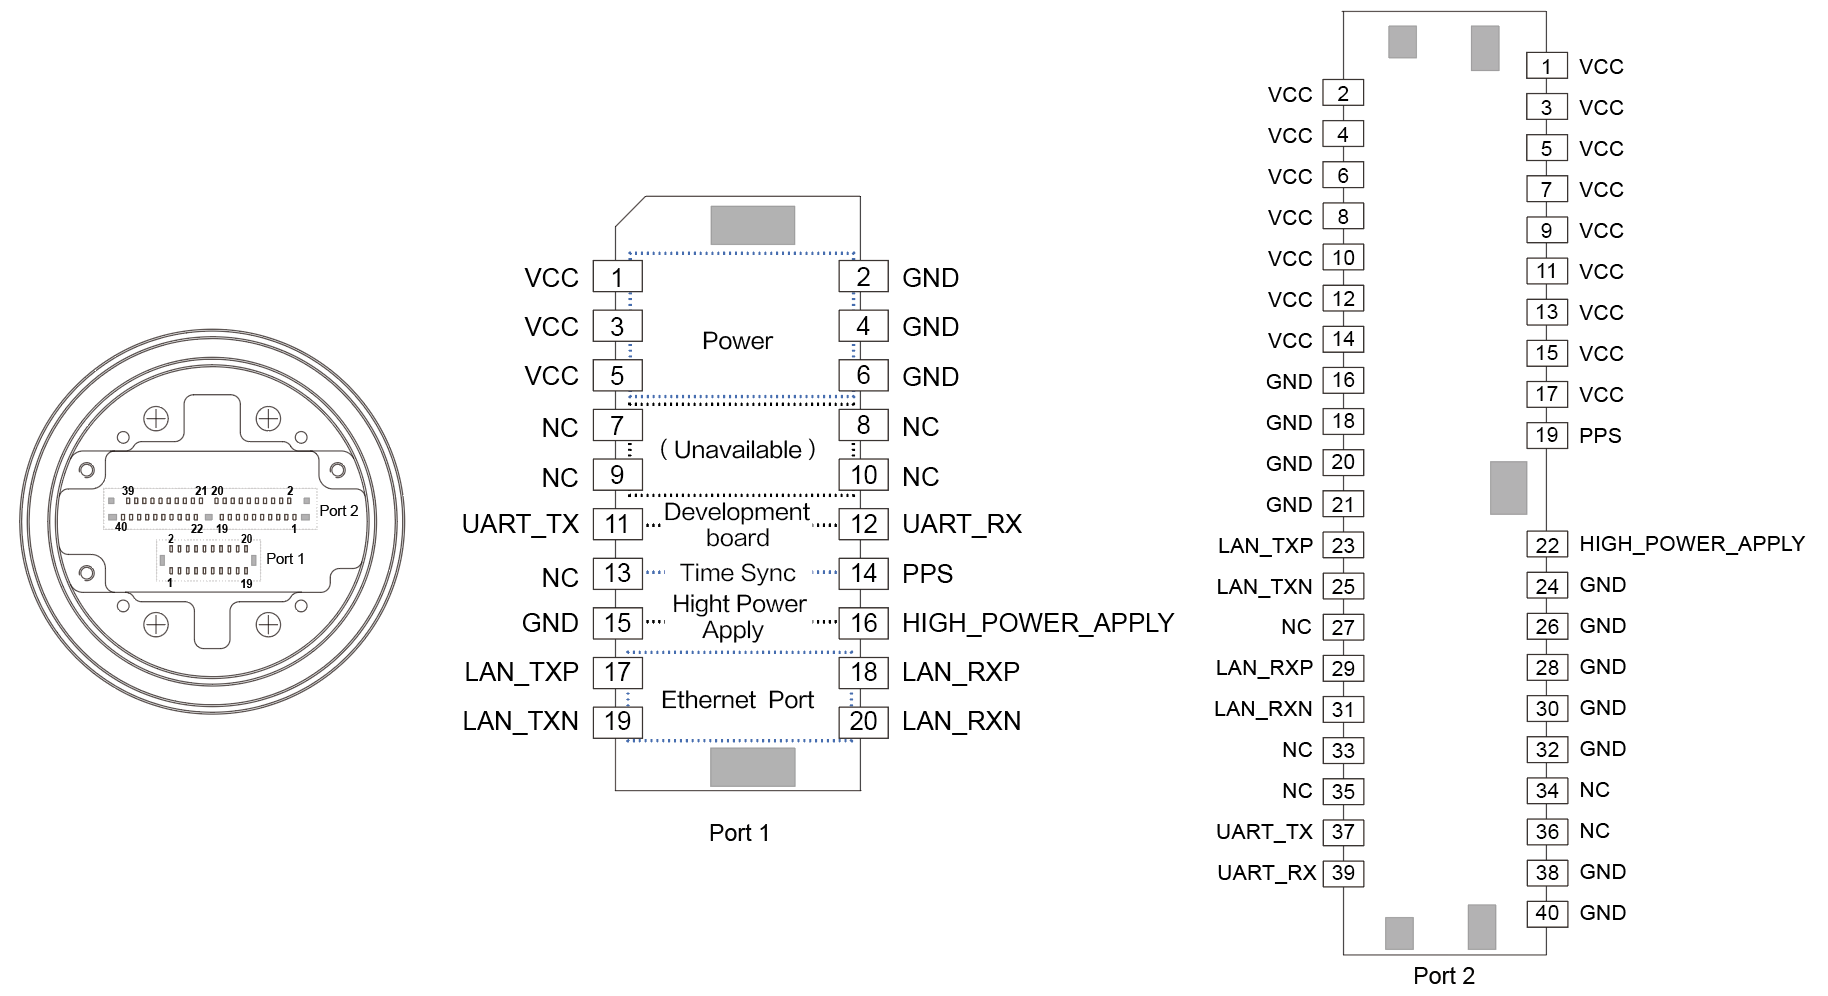
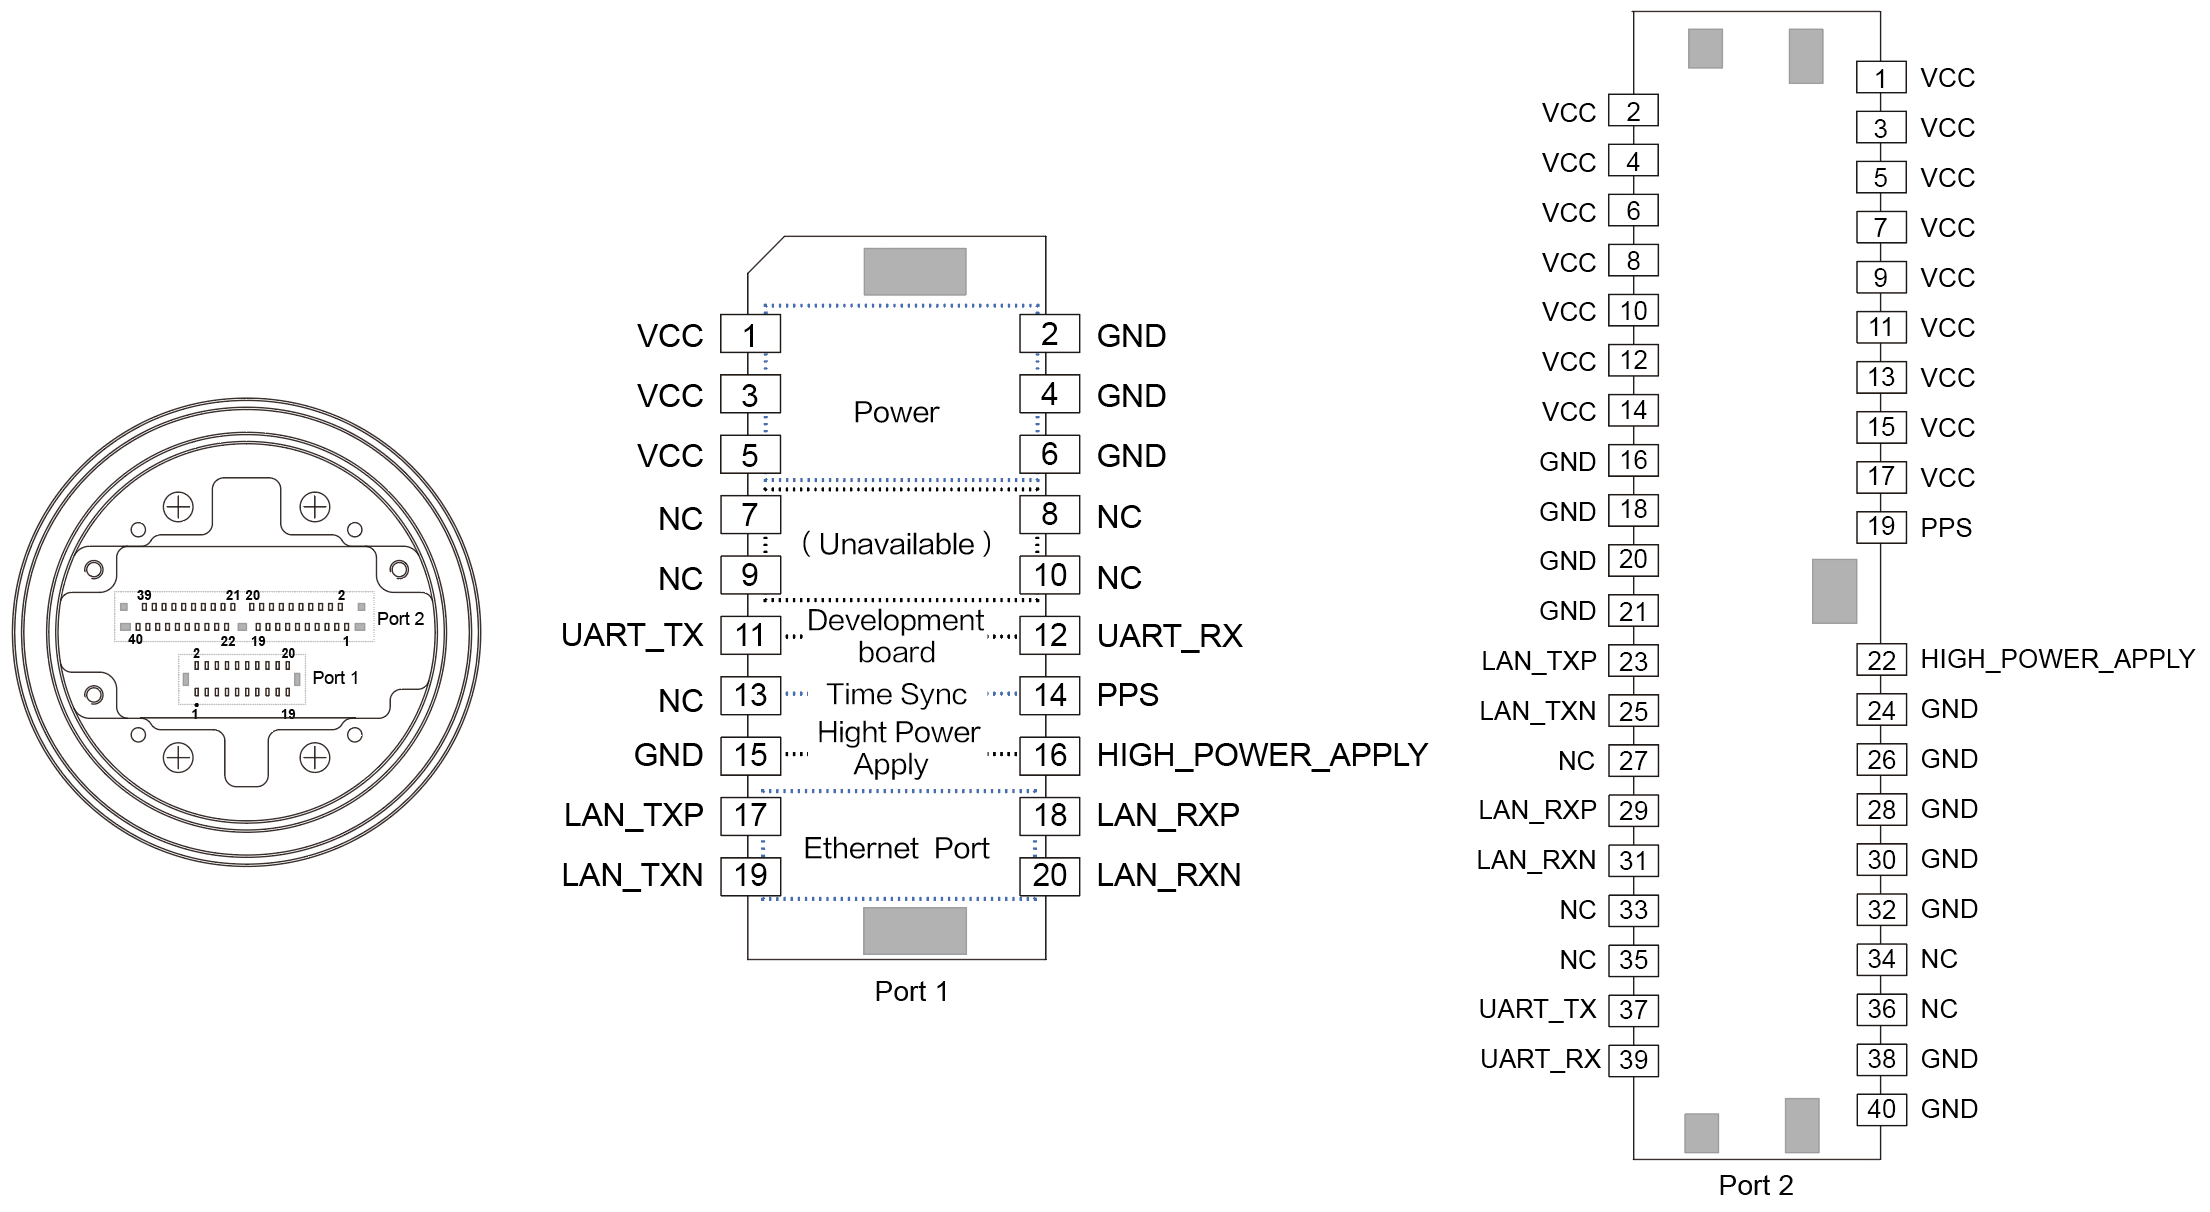
Update psdk doc for Xport and Skyport 2

diff --git a/source/guide/payload-criterion.md b/source/guide/payload-criterion.md
@@ -150,6 +150,8 @@ keywords: [camera stream, standard, payload standard, equipment interference, ha
 > * To prevent the payload carried on the drone from being affected by the inertia of the drone, impact the battery and the blades, please design the size of the load equipment reasonably;
 > * When the weight of the payload is over 600g, please submit the payload to DJI for evaluation.
 
+#### Generic
+
 <table id="PSDK technical integration NOTEs">
   <thead>
     <tr>
@@ -184,6 +186,80 @@ keywords: [camera stream, standard, payload standard, equipment interference, ha
     </tr>
    </tbody>
 </table>
+
+#### Structural for X-Port
+##### X-Port‘s structural
+Figure 1 display the dimension of X-Port.    
+<div>
+<div style="text-align: center"><p>Figure 1 The dimension of X-Port（unit：mm）</p>
+</div>
+<div style="text-align: center"><p><span>
+      <img src="../images/XPort-structure.png" width="450" style="vertical-align:middle" alt/></span></p>
+</div></div>
+
+##### Payload‘s structural
+Before designing the structure of the payload, please choose a tripod, if the size of the payload is limited by the tripod.
+
+<div>
+  <table>
+    <thead>
+      <tr>
+        <th> Gimbal Type</th>
+        <th> Pitch axis rotation limit (Idle speed) </th>
+        <th> Landing Gear Type </th>
+        <th> X-Port payload structure limitation </th>
+      </tr>
+</thead>
+<tbody>
+<tr>
+     <td rowspan=4> Single cloud platform </td>
+     <td rowspan=2> Restricted </td>
+     <td> Original </td>
+     <td> The distance between the lower surface of the payload and the pitch axis is not more than 54mm. </td>
+ </tr>
+<tr>
+    <td> Long </td>
+    <td> The distance between the lower surface of the payload and the pitch axis is not more than 72mm. </td>
+ </tr>
+<tr>
+    <td rowspan=2> None </td>
+    <td> Original </td>
+    <td> The payload must in the mass center, which the diameter of the ball is 118mm.</td>
+ </tr>
+<tr>
+   <td> Long </td>
+   <td> The payload must in the mass center, which the diameter of the ball is 154mm. </td>
+</tr>
+<tr>
+<td rowspan=4>Double Gimbal </td>
+<td rowspan=2> Restricted </td>
+<td> Original </td>
+<td> The distance between the lower surface of the payload and the pitch axis is not more than 45mm. </td>
+</tr>
+<tr>
+<td> Long </td>
+<td> The distance between the lower surface of the payload and the pitch axis is not more than 63mm. </td>
+</tr>
+<tr>
+<td rowspan=2> None </td>
+<td> Original </td>
+<td> The payload must in the mass center, which the diameter of the ball is 100mm. </td>
+</tr>
+<tr>
+<td> Long </td>
+<td> The payload must in the mass center, which the diameter of the ball is 136mm. </td>
+</tr>
+</tbody>
+</table>
+</div>
+
+The requirements of the payload which is mounted on the X-Port is as follows:    
+* The width of the pitch on the X-Port is 80mm. The width of the payload couldn't exceed the wheelbase.     
+* The weight of the payload must lighter than 450g otherwise the payload may damage the gimbal or the pressure-reducing-ball.     
+* The centroid of the normal payload must on the axis line of X-Port，and the payload couldn't strike the X-Port when the payload raised to 45°. The centroid of the payload must on the axis line when the payload’s zoom is in the maximum factor.   
+* If the payload touches the ground，please use the Long Landing Gear.    
+* Be sure that the port of the payload is completely flat, ensure that the waterproof could be sealed completely.      
+* The shell of payload could be aluminum alloy. A plastic or carbon case is not recommended.     
 
 ## Data Transmission
 ##### Use M200 V2 Series

diff --git a/source/workflow/device-connection.md b/source/workflow/device-connection.md
@@ -16,7 +16,7 @@ Figure 1 display the process of connection, that connected Hardware Platform、P
       <img src="../images/device-connection-en.png" width="650" style="vertical-align:middle" alt/></span></p>
 </div></div>
 
-> **TIP：** Using [User's Manual](https://www.dji.com/en/downloads) to know how to connect the drone and remote controller.
+> **NOTE：** Using [User's Manual](https://www.dji.com/en/downloads) to know how to connect the drone and remote controller.
 
 ## NOTICE
 * The details of the Hardware Platform, please refer to [Hardware Platform](../guide/hardware.html).
@@ -25,6 +25,8 @@ Figure 1 display the process of connection, that connected Hardware Platform、P
 ## Use X-Port
 #### X-Port Pin 
 Figure 2 shows the pin of X-Port. Use the cable to connect the X-Port to an expansion board or a third-party development board.
+
+>**NOTICE:** Please use the specified cable connect the X-Port and the Expansion Board, confirmed that the red cable is aligned with the dot mark, otherwise the payload may burned.
 
 <div>
 <div style="text-align: center"><p>Figure 2 X-Port Pin</p>
@@ -77,9 +79,11 @@ Figure 2 shows the pin of X-Port. Use the cable to connect the X-Port to an expa
     * For a zoom camera with a variable center of the centroid, the payload must on the vertical line of the pitch axis when the lens is at the maximum magnification.
 
 ## Use Skyport V2
-Figure 3 shows the pin of Skyport V2. Use the cable to connect the Skyport V2 to an expansion board or a third-party development board on the Port1; use coaxial cable to connect Skyport V2 to payload development board on the Port2.
+Figure 3 shows the pin of Skyport V2. Use the cable to connect the Skyport V2 to an expansion board or a third-party development board on the Port1; use coaxial cable to connect Skyport V2 to the payload development board on the Port2.
 
-> **NOTE:** Developer only could choose Port1 or Port2, both of them cannot be used at the same time.
+> **NOTICE** 
+> * Developer only could choose Port1 or Port2, both of them cannot be used at the same time.
+> * Please use the specified cable connect the Port1 and the Expansion Board, confirmed that the red cable is aligned with the dot mark, otherwise the payload may burned.
 
 <div>
 <div style="text-align: center"><p>Figure 3 Skyport V2 pin</p>
@@ -167,6 +171,8 @@ Figure 3 shows the pin of Skyport V2. Use the cable to connect the Skyport V2 to
 
 ## Use Expansion Board
 Figure 4 shows the port of the expansion board. Use this board, developers could connect the third-party development board and a variety of payloads.
+
+> **NOTICE:** Please use the specified cable connect the Third Development Board and the Expansion Board, confirmed that the red cable is aligned with the dot mark, otherwise the payload may burned.
 
 <div>
    <div>

diff --git a/source/cn/guide/hardware.md b/source/cn/guide/hardware.md
@@ -67,11 +67,6 @@ Skyport 包含如下配件：
       <td style="border-right: none;">24g</td>
     </tr>
     <tr style="text-align:center">
-      <td style="border-left: none;text-align:left;border-right: none;"><b>负载尺寸</b></td>
-      <td style="border-right: none;text-align:left;border-left: none;">负载设备需要在以X-Port 质心为</br>圆心，直径为145mm 的球内</td>
-      <td colspan="2" style="border-right: none;">负载设备不可撞击或干涉无人机的正常运行</td>
-    </tr>
-    <tr style="text-align:center">
       <td style="text-align:left;border-right: none;border-left: none"><b>负载重量</b></td>
       <td style="border-right: none;text-align:left;border-left: none;">450g</td>
       <td colspan="2" 1style="border-right: none;">单个负载设备的重量不超过600g</br><div style="background:#F2F2F2"> <b>说明：</b>有关负载设备重量的详细说明，请参见<a href=../guide/payload-criterion.html>结构标准</a>。</div></td>
@@ -131,27 +126,3 @@ Skyport 包含如下配件：
 > **说明** 
 > * X-Port 的防护等级：IP44，工作温度范围：-20°C～50°C。
 > * 受实际工作环境的影响，X-Port 实际的工作电流可能会和额定电流有一定的差异。
-
-## X-Port 
-有关使用X-Port 的操作步骤，请参见 [“使用硬件平台”](../guide/hardware.html)。	
-#### 云台结构
-X-Port 标准云台的结构如 图1. X-Port 标准云台 所示：
-<div>
-<div style="text-align: center"><p>图1. X-Port 标准云台（单位：mm）</p>
-</div>
-<div style="text-align: center"><p><span>
-      <img src="../../images/XPort-structure.png" width="450" style="vertical-align:middle" alt/></span></p>
-</div></div>
-
-#### 负载设备设计约束
-
-使用X-Port 开发的负载设备需符合如下要求：
-
-* X-Port 轴臂的宽度为**80mm**，为确保负载设备能够正常转动，负载设备的宽度**不可**超出该轴距；    
-* 负载设备的重量**不可**超过 **450g**，超出该质量的负载设备可能会损坏云台支架或减震球；    
-* 负载设备的质心需要在安装结构的轴心线上；确保负载设备在**以质心为球心**，直径为145mm 的球内，防止负载设备上扬45° 时，影响X-Port 的正常转动；    
-  >**说明：** 请确保可变焦的负载设备在最大变焦倍数时，负载设备的质心在安装轴的**轴线**上。  
-
-* 无人机在静置状态下，若负载设备可能会触碰到地面，建议使用**加长起落架**；    
-* 请确保安装负载设备的接口与X-Port 主轴臂的防水垫圈**完全贴合**；   
-* 推荐负载设备使用铝合金材质的外壳，不建议使用**塑料材质**的外壳或**碳纤维材质**的外壳。    

diff --git a/source/guide/hardware.md b/source/guide/hardware.md
@@ -71,10 +71,6 @@ Using the payload development-board, developers do not need to purchase a third-
       <td style="border-right: none;">29g</td>
       <td style="border-right: none;">24g</td>
     </tr>
-    <tr style="text-align:center">
-      <td style="border-left: none;text-align:left;border-right: none;"><b>Payload Dimension</b></td>
-      <td style="border-right: none;text-align:left;border-left: none;">Restrict the payload within the sphere, which the center is the centroid of X-Port, the diameter is 145mm.</td>
-      <td colspan="2" style="border-right: none;">Not crash the drone.</td>
     </tr>
     <tr style="text-align:center">
       <td style="text-align:left;border-right: none;border-left: none"><b>Payload Weight</b></td>
@@ -137,32 +133,3 @@ Using the payload development-board, developers do not need to purchase a third-
 > * X-Port Ingress Protection: IP44
 > * X-Port Temperature: -20°C～50°C
 > * The rated-current of X-Port may be affected by the working environment.
-
-## X-Port 
-The steps of X-Port, please refer to [Using Hardware Platform](../guide/hardware.html)。	
-#### Dimension
-Figure 1 display the dimension of X-Port.    
-<div>
-<div style="text-align: center"><p>Figure 1 The dimension of X-Port（unit：mm）</p>
-</div>
-<div style="text-align: center"><p><span>
-      <img src="../images/XPort-structure.png" width="450" style="vertical-align:middle" alt/></span></p>
-</div></div>
-
-#### Constraint
-* The width of the pitch on the X-Port is 80mm. The width of the payload couldn't exceed the wheelbase.
-
-* The weight of the payload must lighter than 450g otherwise the payload may damage the gimbal or stand.
-
-* The centroid of the payload must on the axis line of X-Port.
-
-* The payload must within the sphere, which the center is the centroid of X-Port, the diameter is 145mm.
-
-* The payload couldn't strike the X-Port when the payload raised to 45°.
-  > **NOTE:** The centroid of the payload must on the axis line when the payload’s zoom is in the maximum factor.
-
-* If the payload touches the ground，please use the increased stander.
-
-* Be sure that the port of the payload is completely flat, ensure that the waterproof could be sealed completely.
-
-* The shell of payload could be aluminum alloy. A plastic or carbon case is not recommended.

diff --git a/source/camera/camera-zoom.md b/source/camera/camera-zoom.md
@@ -14,7 +14,7 @@ Before developing the zoom control for the payload, the developer needs to devel
 * Optical zoom: the camera-type payload changes the structure of the lens. The larger factor makes the scene will be small.
 * Digital zoom: the camera-type payload use the specific algorithm to change the area of each pixel on the sensor.
 * Continuous zoom: the camera-type payload control the payload's lens move to the specified direction at the specified speed. The first is optical zoom, then is digital zoom. Multiples = optical zoom multiple × digital zoom multiple;
-* Tap zoom: the camera-type payload control the gimble rotate to the specified position make the target is in the center of the screen, and then expend the camera according to the zoom factor that user preset. 
+* Tap zoom: the camera-type payload control the gimbal rotate to the specified position make the target is in the center of the screen, and then expend the camera according to the zoom factor that user preset. 
 
 #### Zoom Direction
 * ZOOM_IN: The zoom factor decreases and the image moves from far to near.
@@ -224,7 +224,7 @@ Press and hold the zoom button to change the zoom factor, as shown in Figure 1.
 </div></div>
 
 #### 5. Develop with the Tap Zoom 
-The tap zoom function control the gimble rotated to the target position and uses the current focal length to make the object in the center of the screen.
+The tap zoom function control the gimbal rotated to the target position and uses the current focal length to make the object in the center of the screen.
 
 ##### Developed in the callback function
 

diff --git a/source/cn/introduction/how-to-use-PSDK.md b/source/cn/introduction/how-to-use-PSDK.md
@@ -6,7 +6,8 @@ keywords: [注册, 选购, 入门, 学习, 进阶, 高级]
 ---
 > **说明：** 本系列文档介绍PSDK V2.0.0 的功能，以及使用PSDK V2.0.0 开发负载设备的步骤和方法，若您仍使用PSDK V 1.5.0 开发负载设备，请下载[PSDK V1.5.0](https://terra-1-g.djicdn.com/71a7d383e71a4fb8887a310eb746b47f/psdk/payload-sdk-doc-1.0.zip) 的文档。
 
-使用PSDK 开发负载设备前，需要先注册具有PSDK 使用权限的企业账号；使用PSDK 开发负载设备时，需要选购DJI 的**无人机**和开发负载设备的**硬件平台**。建议您根据本文提供的开发引导，学习开发负载设备时所需的**基础知识**、了解开发负载设备的**各项标准**，借助**实践教程和API 文档**开发出可挂载在DJI 无人机上的负载设备。
+使用PSDK 开发负载设备前，需要先注册具有PSDK 使用权限的企业账号；使用PSDK 开发负载设备时，需要选购DJI 的**无人机**和开发负载设备的**硬件平台**。    
+建议您根据本文提供的开发引导，通过学习开发负载设备时所需的**基础知识**、了解开发负载设备的**各项标准**，借助**实践教程和API 文档**，开发出可挂载在DJI 无人机上**功能完善**的负载设备。
 
 ## 1. 注册DJI PSDK 企业账号
 

diff --git a/source/tutorial/gimbal-control.md b/source/tutorial/gimbal-control.md
@@ -32,7 +32,7 @@ Figure 2 shows the attitude of the payload, according to the control command, th
 <div style="text-align: center"><p>Figure 2 Attitude angle </p>
 </div>
 <div style="text-align: center"><p><span>
-      <img src="../images/gimble_up-en.png" width="370" alt/></span></p>
+      <img src="../images/gimbal_up-en.png" width="370" alt/></span></p>
 </div></div>
    
 
@@ -66,7 +66,7 @@ The details for the gimbal control permissions, please refer to Table 1.
 
 * Release
   * The control module will release the control right after completing the control of the gimbal;
-  * If the control module does not release the control right after completing the control of the gimbal, the gimble which developed based on PSDK will automatically release the control right within the specified time after the end of the gimbal rotation. 
+  * If the control module does not release the control right after completing the control of the gimbal, the gimbal which developed based on PSDK will automatically release the control right within the specified time after the end of the gimbal rotation. 
 
 <div><div>
 <p>

diff --git a/source/tutorial/positioning.md b/source/tutorial/positioning.md
@@ -20,7 +20,7 @@ To meet the centimeter-level accuracy positioning requirements of the payload de
 
 ## Concepts  
 
-* Target Point: The position where the positioning information is obtained, such as the center point of the gimble.
+* Target Point: The position where the positioning information is obtained, such as the center point of the gimbal.
    > **NOTE:** The target point of the M210 RTK V2 is the center point on the upper surface of the adapter ring of the payload. The payload needs to be mounted on the Gimbal I.
 * Interest Point: The position of a device on the payload specified by the user arbitrarily, such as the center point of a camera image sensor. The target point can also be a point of interest.
 * Task: A set of multiple continuous flight actions is called a task, such as performing a mapping task on a certain area.

diff --git a/source/tutorial/X-Port.md b/source/tutorial/X-Port.md
@@ -2,7 +2,7 @@
 title: X-Port Control
 date: 2020-01-17
 version: 2.0.0
-keywords: [gimble, X-Port control, camera]
+keywords: [gimbal, X-Port control, camera]
 ---
 > **NOTE**
 > * This article is **machine-translated**. If you have any questions about this article, please send an <a href="mailto:dev@dji.com">E-mail </a>to DJI, we will correct it in time. DJI appreciates your support and attention.
@@ -316,8 +316,8 @@ Table 3 The limit angle for the X-Port </p></div>
     </tr>
     <tr>
       <td>The joint angle of the yaw	</td>
-      <td>Gimble I: 30 (upper limit), -150 (lower limit)
-Gimble II: 150 (upper limit), -30 (lower limit)</td>
+      <td>gimbal I: 30 (upper limit), -150 (lower limit)
+gimbal II: 150 (upper limit), -30 (lower limit)</td>
     </tr>
   </tbody>
 </table></div></div>
